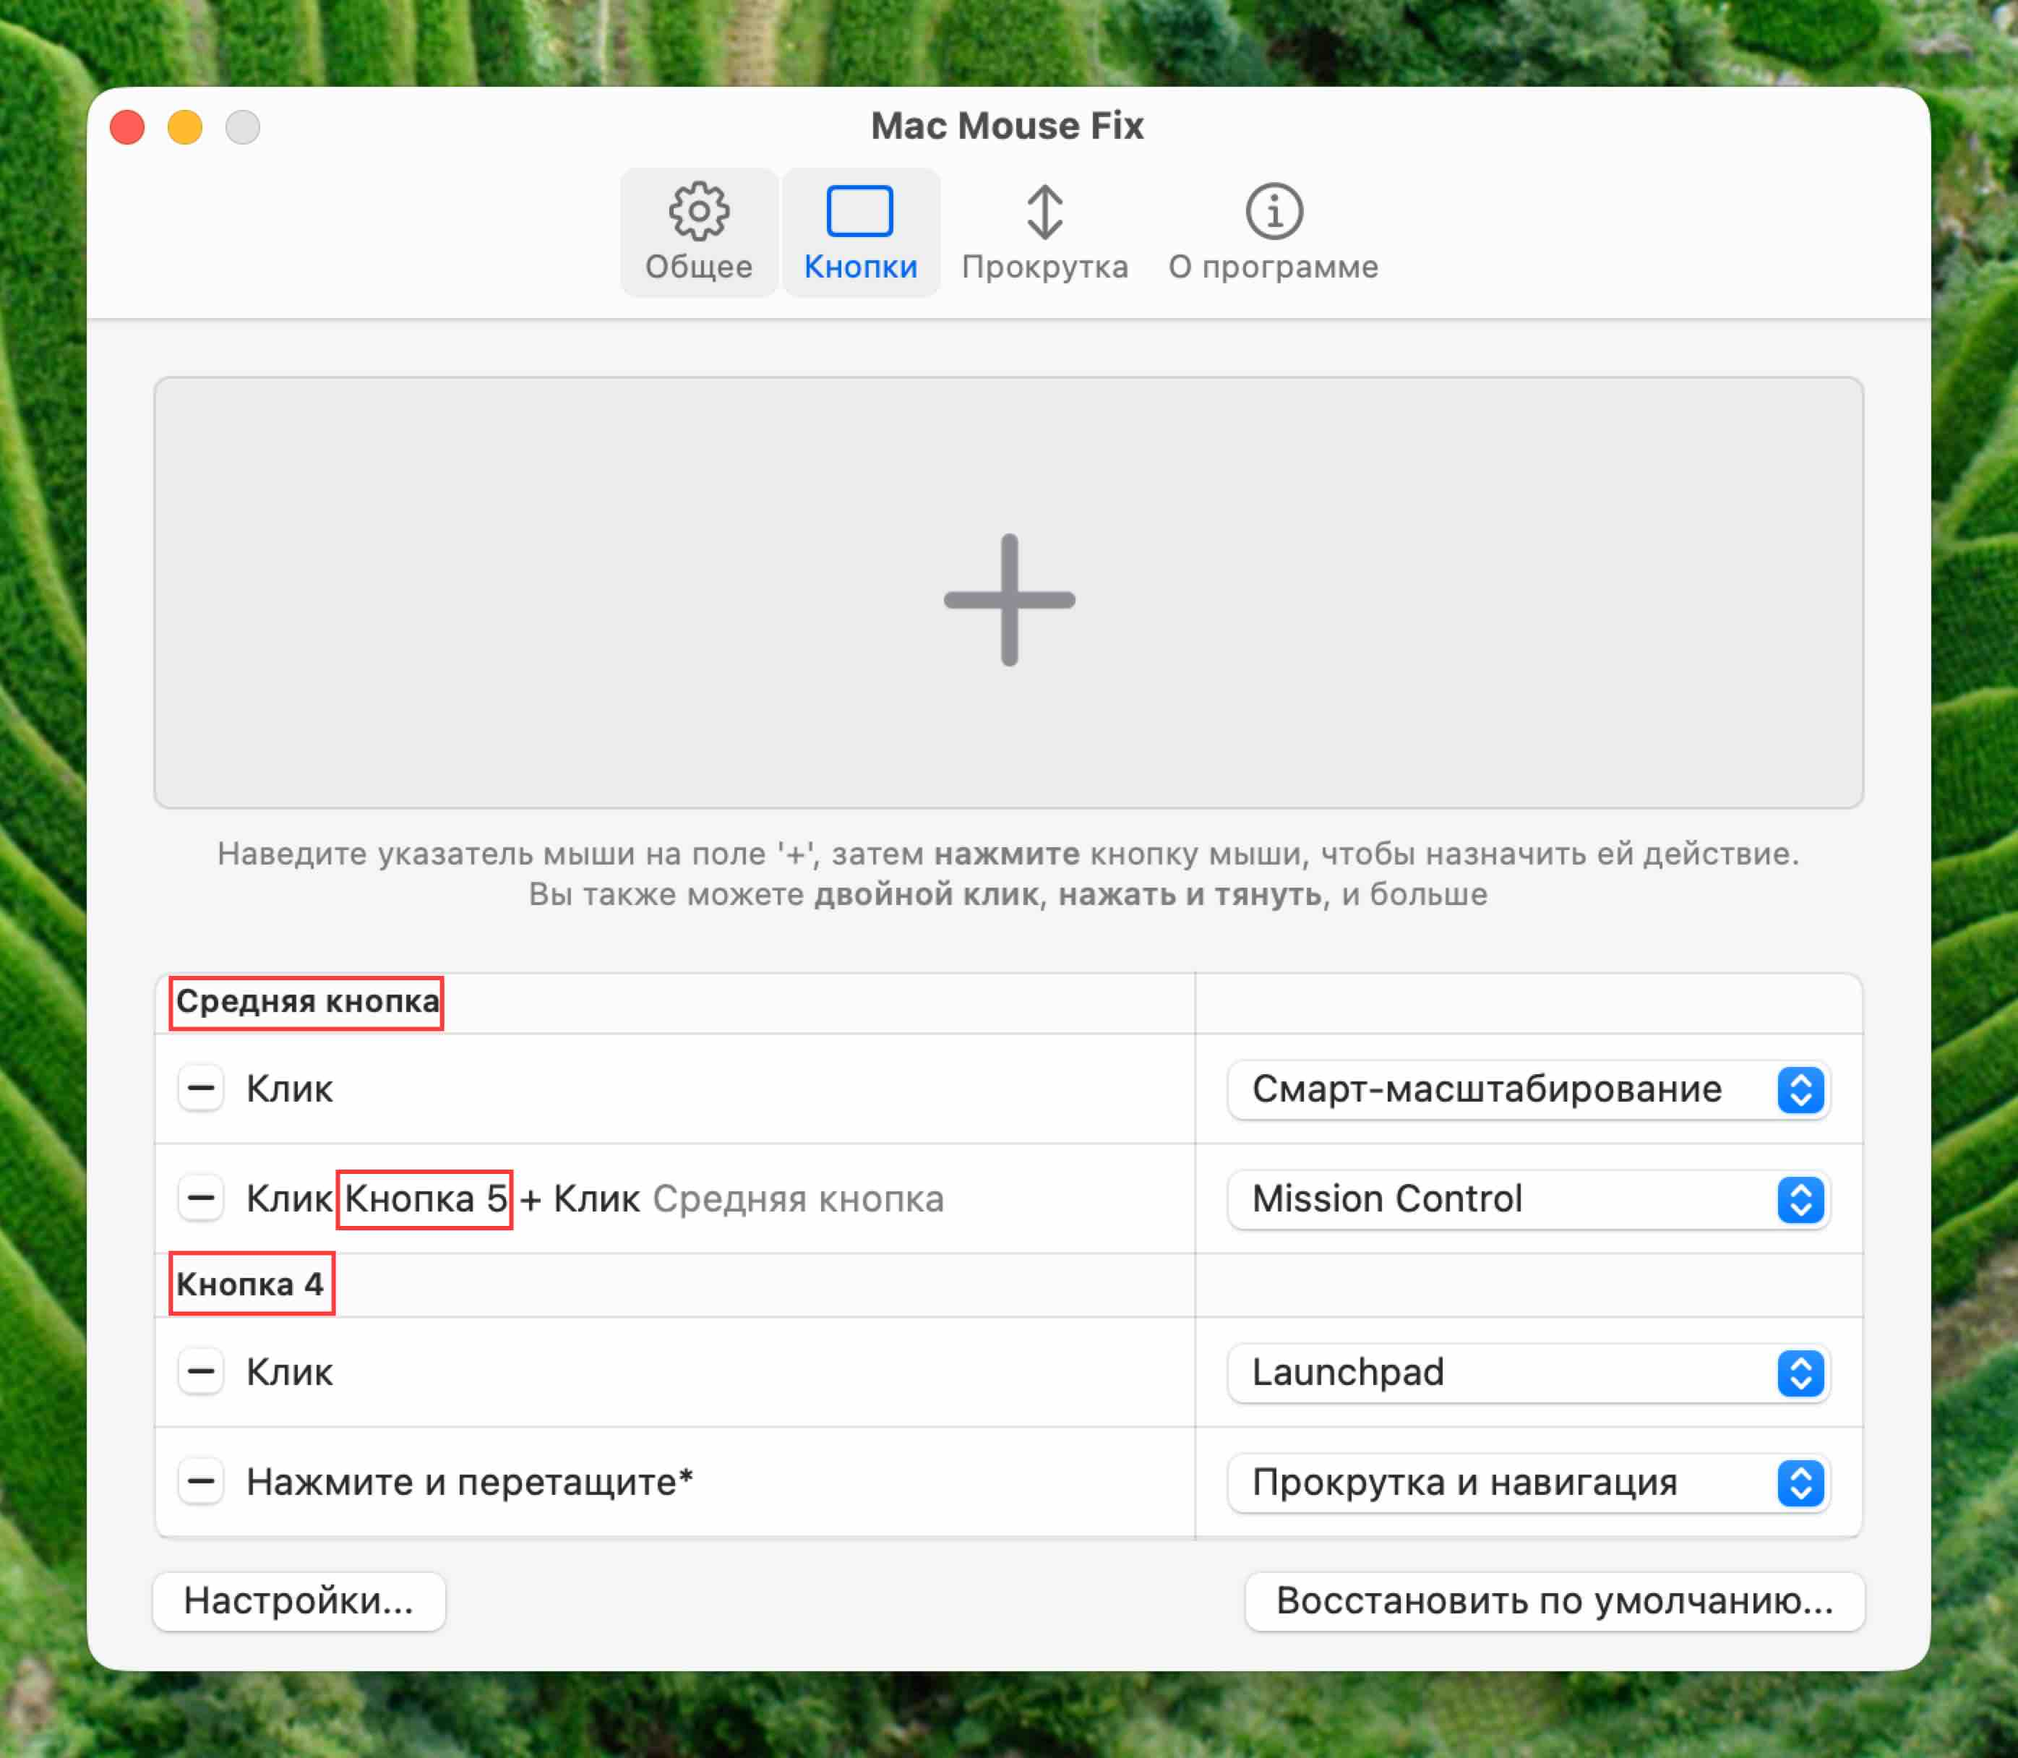
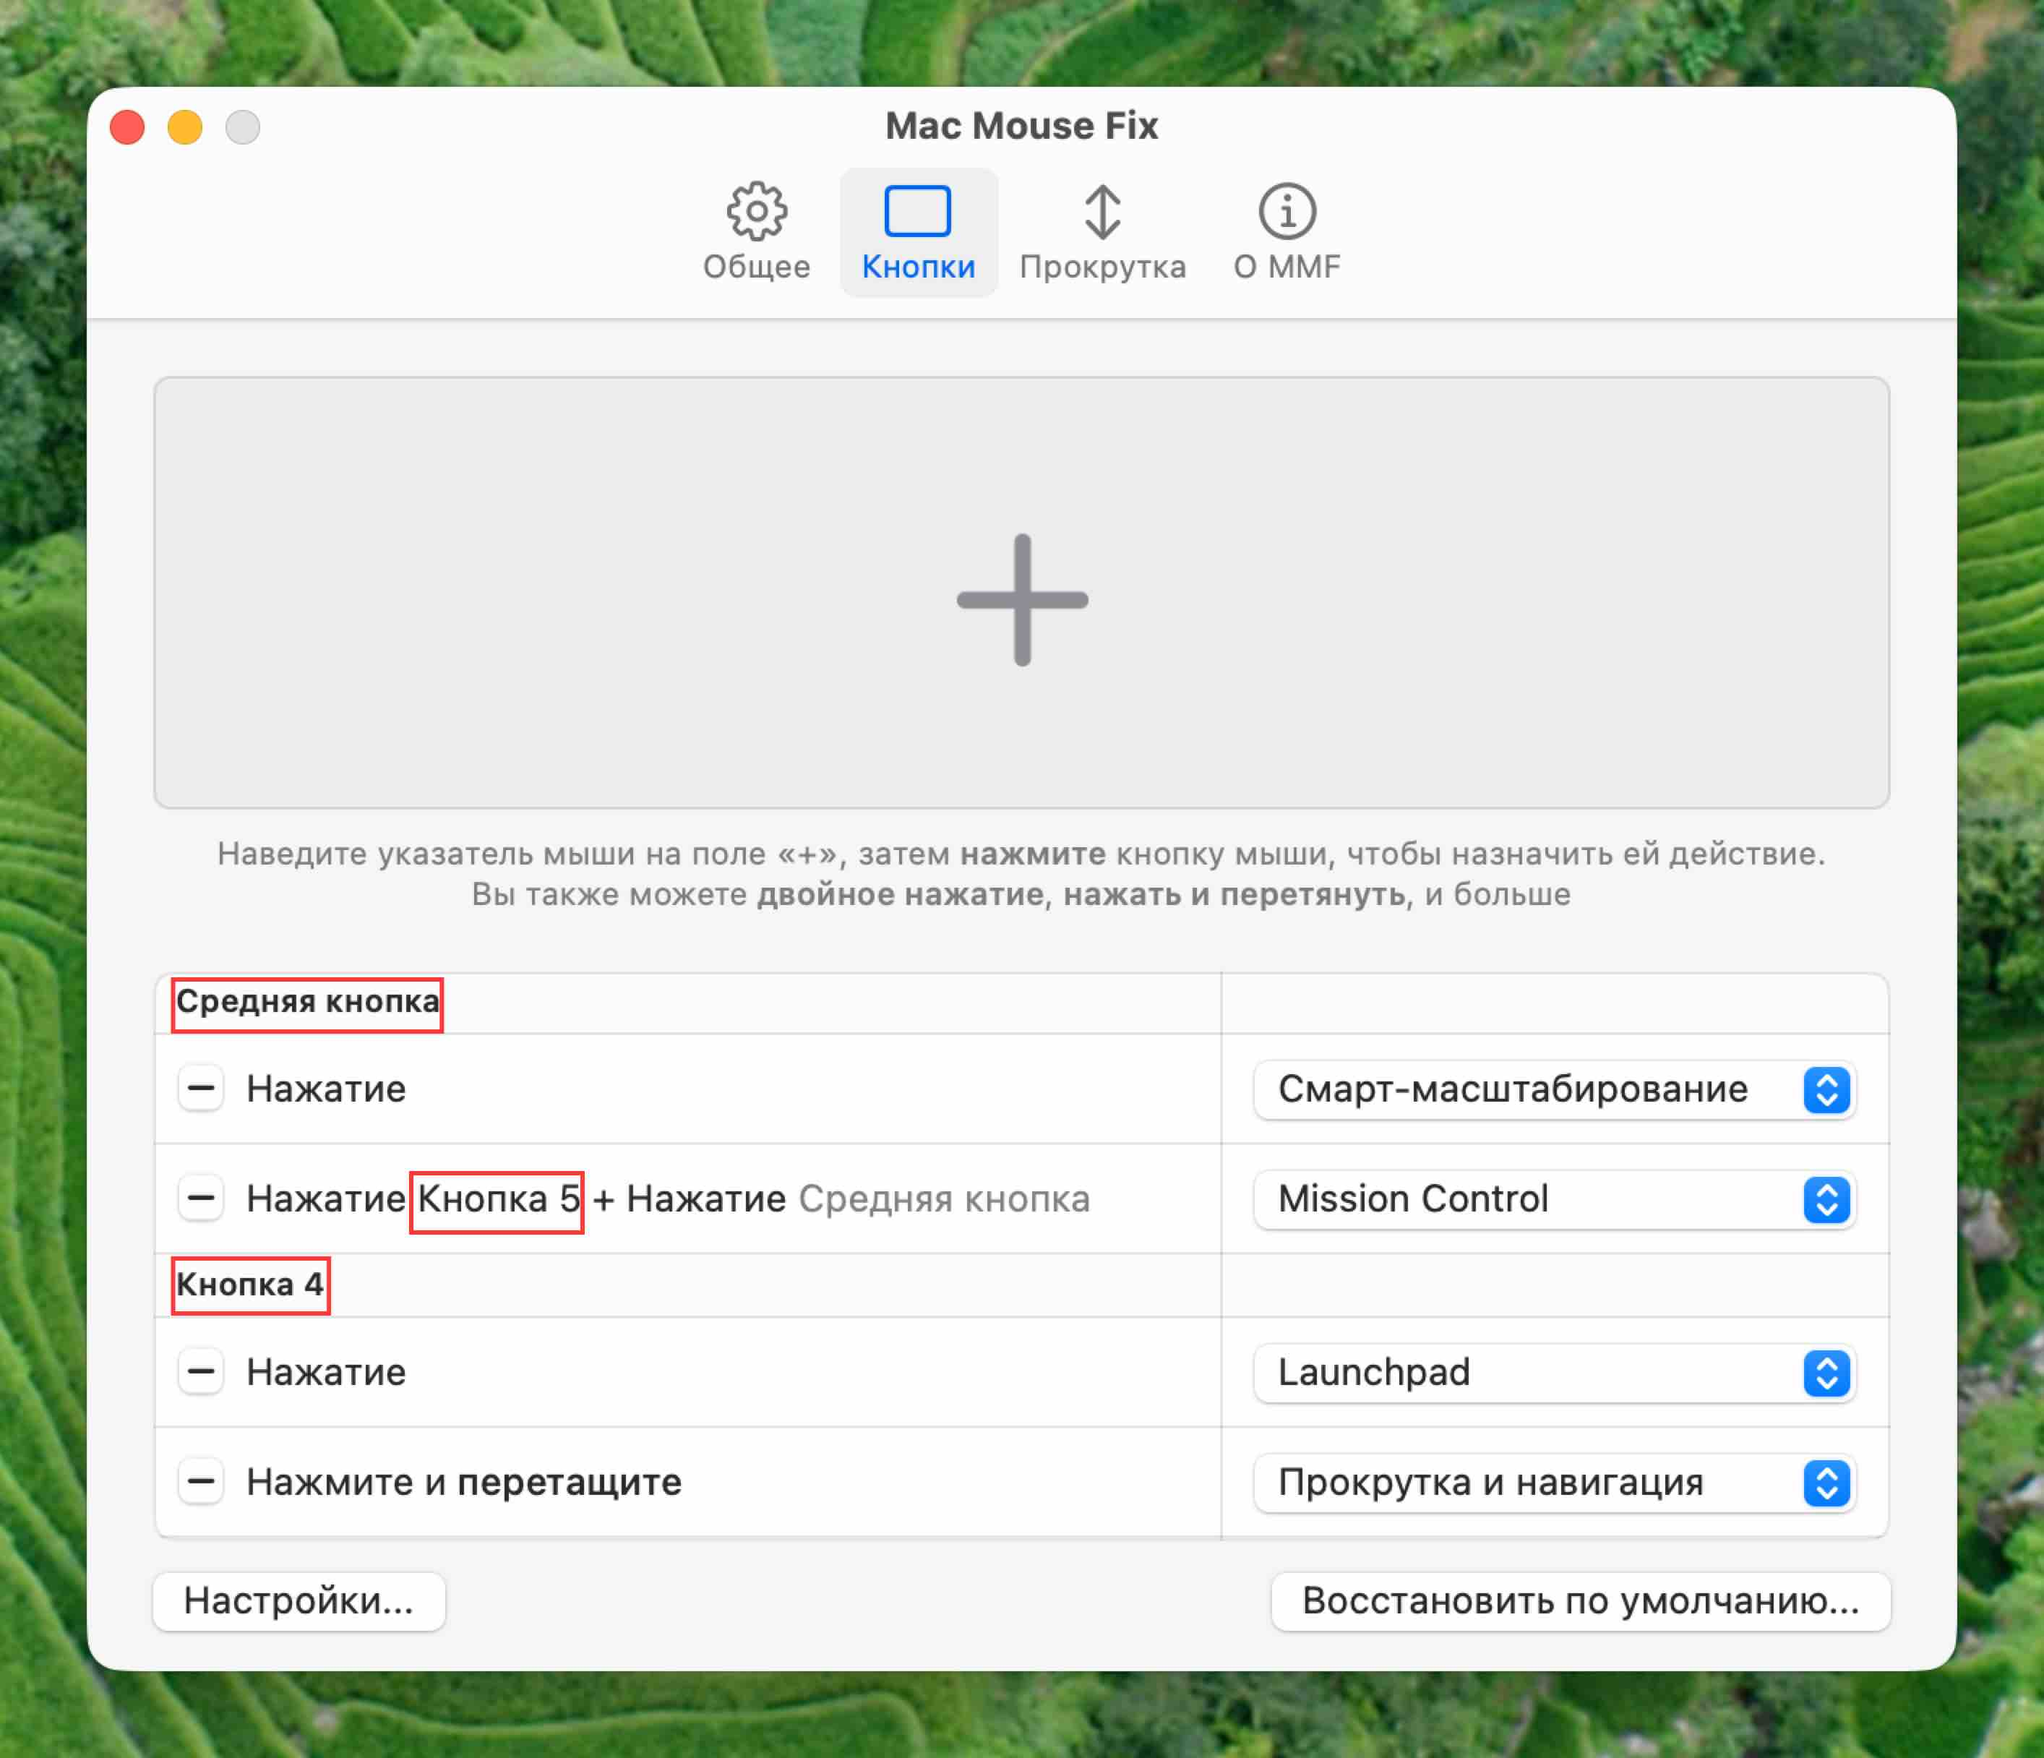
- Ran scripts to update Russian docs - Update build number to 24828

diff --git a/LocalizationScreenshotTaker/LocalizationScreenshots.swift b/LocalizationScreenshotTaker/LocalizationScreenshots.swift
@@ -486,7 +486,7 @@ final class LocalizationScreenshotClass: XCTestCase {
             var allFilePaths: [String]
         }
         var args = Args(
-            onlyUpdateLocales: [],      /// Only update screenshots for these locales. (leave empty to update all)
+            onlyUpdateLocales: ["ru"],      /// Only update screenshots for these locales. (leave empty to update all)
             continueFromLocale: nil,    /// Set in case of interruption, to avoid redoing already-completed localizations. Restart from this locale
             killApp: true,              /// Set false to leave app running for faster iterations.
             allFilePaths: [

diff --git a/Markdown/LocalizedDocuments/ru/Support/Guides/CapturedButtonsMMF3.md b/Markdown/LocalizedDocuments/ru/Support/Guides/CapturedButtonsMMF3.md
@@ -130,13 +130,13 @@ To get back the functionality that you were used to before installing Mac Mouse 
 
 # Захваченные кнопки мыши
 
-При использовании Mac Mouse Fix вы могли столкнуться с сообщением о том, что кнопка на вашей мыши в данный момент 'захвачена' Mac Mouse Fix.
+При использовании Mac Mouse Fix вы могли столкнуться с сообщением о том, что кнопка на вашей мыши в данный момент «захвачена» Mac Mouse Fix.
 
 <img height=200 src="../../../../..//Markdown/Media/Autogenerated/ru/CapturedButtons0.jpg">"
 
 В этой статье вы узнаете, что это означает, какие проблемы это может вызвать и как их решить.
 
-## Что означает 'захват' кнопки мыши?
+## Что означает «захват» кнопки мыши?
 
 Кнопка мыши, захваченная Mac Mouse Fix, больше не видна другим приложениям или macOS.
 Функции, которые обычно выполняет эта кнопка, не будут работать, пока она захвачена.
@@ -149,18 +149,18 @@ To get back the functionality that you were used to before installing Mac Mouse 
 
 ## Как узнать, какие кнопки захватываются Mac Mouse Fix?
 
-Любая кнопка, отображаемая в левой части вкладки 'Кнопки', захватывается Mac Mouse Fix.
+Любая кнопка, отображаемая в левой части «Кнопки», захватывается Mac Mouse Fix.
 
-На следующем изображении захватываются **'Средняя кнопка'**, **'Кнопка 5'** и **'Кнопка 4'**: <br>
+На следующем изображении захватываются **«Средняя кнопка»**, **«Кнопка 5»** и **«Кнопка 4»**: <br>
 
 <img width=600  src="../../../../..//Markdown/Media/Autogenerated/ru/CapturedButtons1.jpg">"
 
 ## Как запретить Mac Mouse Fix захватывать кнопку мыши?
 
-Чтобы запретить Mac Mouse Fix захватывать кнопку мыши, удалите все записи для этой кнопки мыши на вкладке 'Кнопки'.
-Вы можете удалить запись на вкладке 'Кнопки', нажав кнопку '-' слева.
+Чтобы запретить Mac Mouse Fix захватывать кнопку мыши, удалите все записи для этой кнопки мыши на вкладке «Кнопки».
+Вы можете удалить запись на вкладке «Кнопки», нажав кнопку «-» слева.
 
-Например, на следующем изображении вы можете запретить захват **'Кнопки 4'**, нажав две выделенные кнопки **'-'**:
+Например, на следующем изображении вы можете запретить захват **«Кнопки 4»**, нажав две выделенные кнопки **«-»**:
 
 <img width=600  src="../../../../..//Markdown/Media/Autogenerated/ru/CapturedButtons2.jpg">"
 
@@ -176,10 +176,10 @@ To get back the functionality that you were used to before installing Mac Mouse 
 
 | Кнопка | Исходная функция | Действие в Mac Mouse Fix |
 |----------|-----------------------------------|-------------------------|
-| Средняя кнопка мыши | Открыть ссылки в браузере в новой вкладке | 'Средний щелчок'<br>(Может быть назначен для **щелчка** кнопкой) |
-| Средняя кнопка мыши | Вставить текст в терминал | 'Средний щелчок'<br>(Может быть назначен для **щелчка** кнопкой) |
-| Кнопка мыши 4 / Кнопка мыши 5 | Вернуться назад / перейти вперед в Chrome и других приложениях | 'Назад' / 'Вперед'<br>(Может быть назначен для **щелчка** кнопкой) |
-| Средняя кнопка мыши | Орбита вокруг объектов в Blender (и других 3D-приложениях) | 'Прокрутка и навигация'<br>(Может быть назначено **щелчку и перетаскиванию** кнопки) |
+| Средняя кнопка мыши | Открыть ссылки в браузере в новой вкладке | «Средний клик»<br>(Может быть назначен для **нажатия** кнопки) |
+| Средняя кнопка мыши | Вставить текст в терминал | «Средний клик»<br>(Может быть назначен для **нажатия** кнопки) |
+| Кнопка мыши 4 / Кнопка мыши 5 | Вернуться назад / перейти вперед в Chrome и других приложениях | «Назад» / «Вперед»<br>(Может быть назначен для **щелчка** кнопкой) |
+| Средняя кнопка мыши | Орбита вокруг объектов в Blender (и других 3D-приложениях) | «Прокрутка и навигация»<br>(Может быть назначено **щелчку и перетаскиванию** кнопки) |
 
 
 Таким образом, вы можете продолжать использовать обычную функциональность кнопки, а также назначать ей *дополнительные* функции в Mac Mouse Fix.
@@ -194,7 +194,7 @@ To get back the functionality that you were used to before installing Mac Mouse 
 <table align="center">
 <td>
 
-Надеюсь, это руководство было полезным!</td>
+Надеюсь, это руководство прояснило ситуацию!</td>
 <td>
 
 Еще есть вопросы? Нажмите [здесь](https://redirect.macmousefix.com/?locale=ru&target=mmf-support-still-have-questions).</td>

diff --git a/Markdown/LocalizedDocuments/ru/Support/Guides/CapturedScrollWheels.md b/Markdown/LocalizedDocuments/ru/Support/Guides/CapturedScrollWheels.md
@@ -19,10 +19,10 @@ Mac Mouse Fix **по умолчанию захватывает колесико 
 
 **Чтобы предотвратить захват колесика прокрутки:**
 
-1. Перейдите на вкладку 'Прокрутка' в Mac Mouse Fix
+1. Перейдите на вкладку «Прокрутка» в Mac Mouse Fix
 2. Отключите **все** опции
-- В случае опции 'Скорость' установите значение 'macOS'
-- Удалите все записи в разделе 'Модификаторы клавиатуры', нажав кнопку 'x' рядом с каждым модификатором
+- В случае опции «Скорость» установите значение «macOS»
+- Удалите все записи в разделе «Модификаторы клавиатуры», нажав кнопку «x» рядом с каждым модификатором
 
 После этого вы должны увидеть сообщение о том, что колесико прокрутки больше не захватывается.
 
@@ -42,7 +42,7 @@ Mac Mouse Fix полностью игнорирует ваше колесико 
 <table align="center">
 <td>
 
-Надеюсь, эта информация была полезна!</td>
+Надеюсь, это руководство прояснило ситуацию!</td>
 <td>
 
 Еще есть вопросы? Нажмите [здесь](https://redirect.macmousefix.com/?locale=ru&target=mmf-support-still-have-questions).</td>
